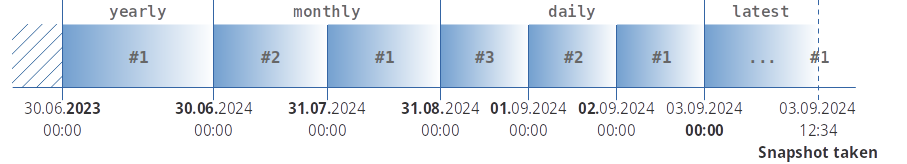
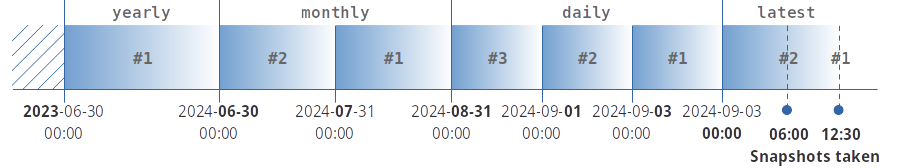
Illustrate multiple snapshots in the "latest" period

diff --git a/README.md b/README.md
@@ -3,7 +3,7 @@
 This script can perform the following tasks for selected servers of a [Hetzner cloud project](https://www.hetzner.com/cloud/):
 
 - Creating a new snapshot
-- Shutting down the server before taking a snapshot and restarting it afterwards
+- Shutting down the server before taking a snapshot and restarting it thereafter
 - Rotating snapshots, retaining a limited number of quarter-hourly, hourly, daily, weekly, monthly, quarterly and
   yearly snapshots
 - Generating names of new and rotated snapshots from templates
@@ -159,11 +159,11 @@ Nevertheless, they are taken into account in the rotation process.
 Rotating snapshots is controlled by the following rules:
 
 - Rotation period types (`quarter-hourly`, `hourly`, ... `yearly`) that were set to zero are ignored.
-- Periods are counted backwards from the present into the past.
-- The first period is the shortest period immediately preceding the instant of rotation.
+- Periods are counted backwards from the present towards the past.
+- The first period is the shortest configured period that immediately precedes the instant of rotation.
 - Other periods immediately precede the next shorter periods without gaps. If, for example, the rotation periods
   were set to `"daily": 3, "monthly": 2, "yearly": 1` then they would be arranged along the timeline like this
-  if a snapshot were taken at Sep 3, 2024 at 12:34:
+  if the latest snapshots had been taken on Sep 3, 2024 at 06:00 and 12:30:
 
   ![Example of how periods are arranged along the timeline](./periods.png)
 
